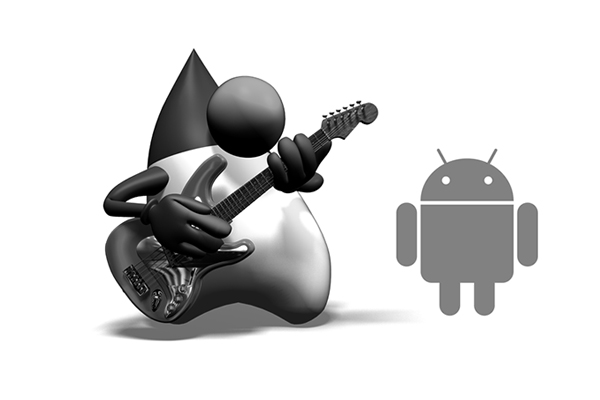
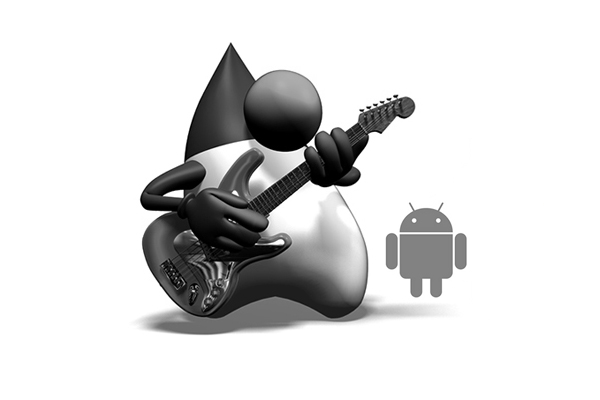
调整机器人大小

Changed region(s): [[0.15, 0.09, 0.9, 0.87]]

diff --git a/doc/css/docs/list.md b/doc/css/docs/list.md
@@ -159,7 +159,7 @@ ol.lower-alpha {list-style-type:upper-alpha}
 * none
 * inherit
 
-注：Internet Explorer 8 以下 （含）不支持以下属性值：
+注：Internet Explorer 8 以下不支持以下属性值：
 
 * decimal-leading-zero
 * lower-greek
